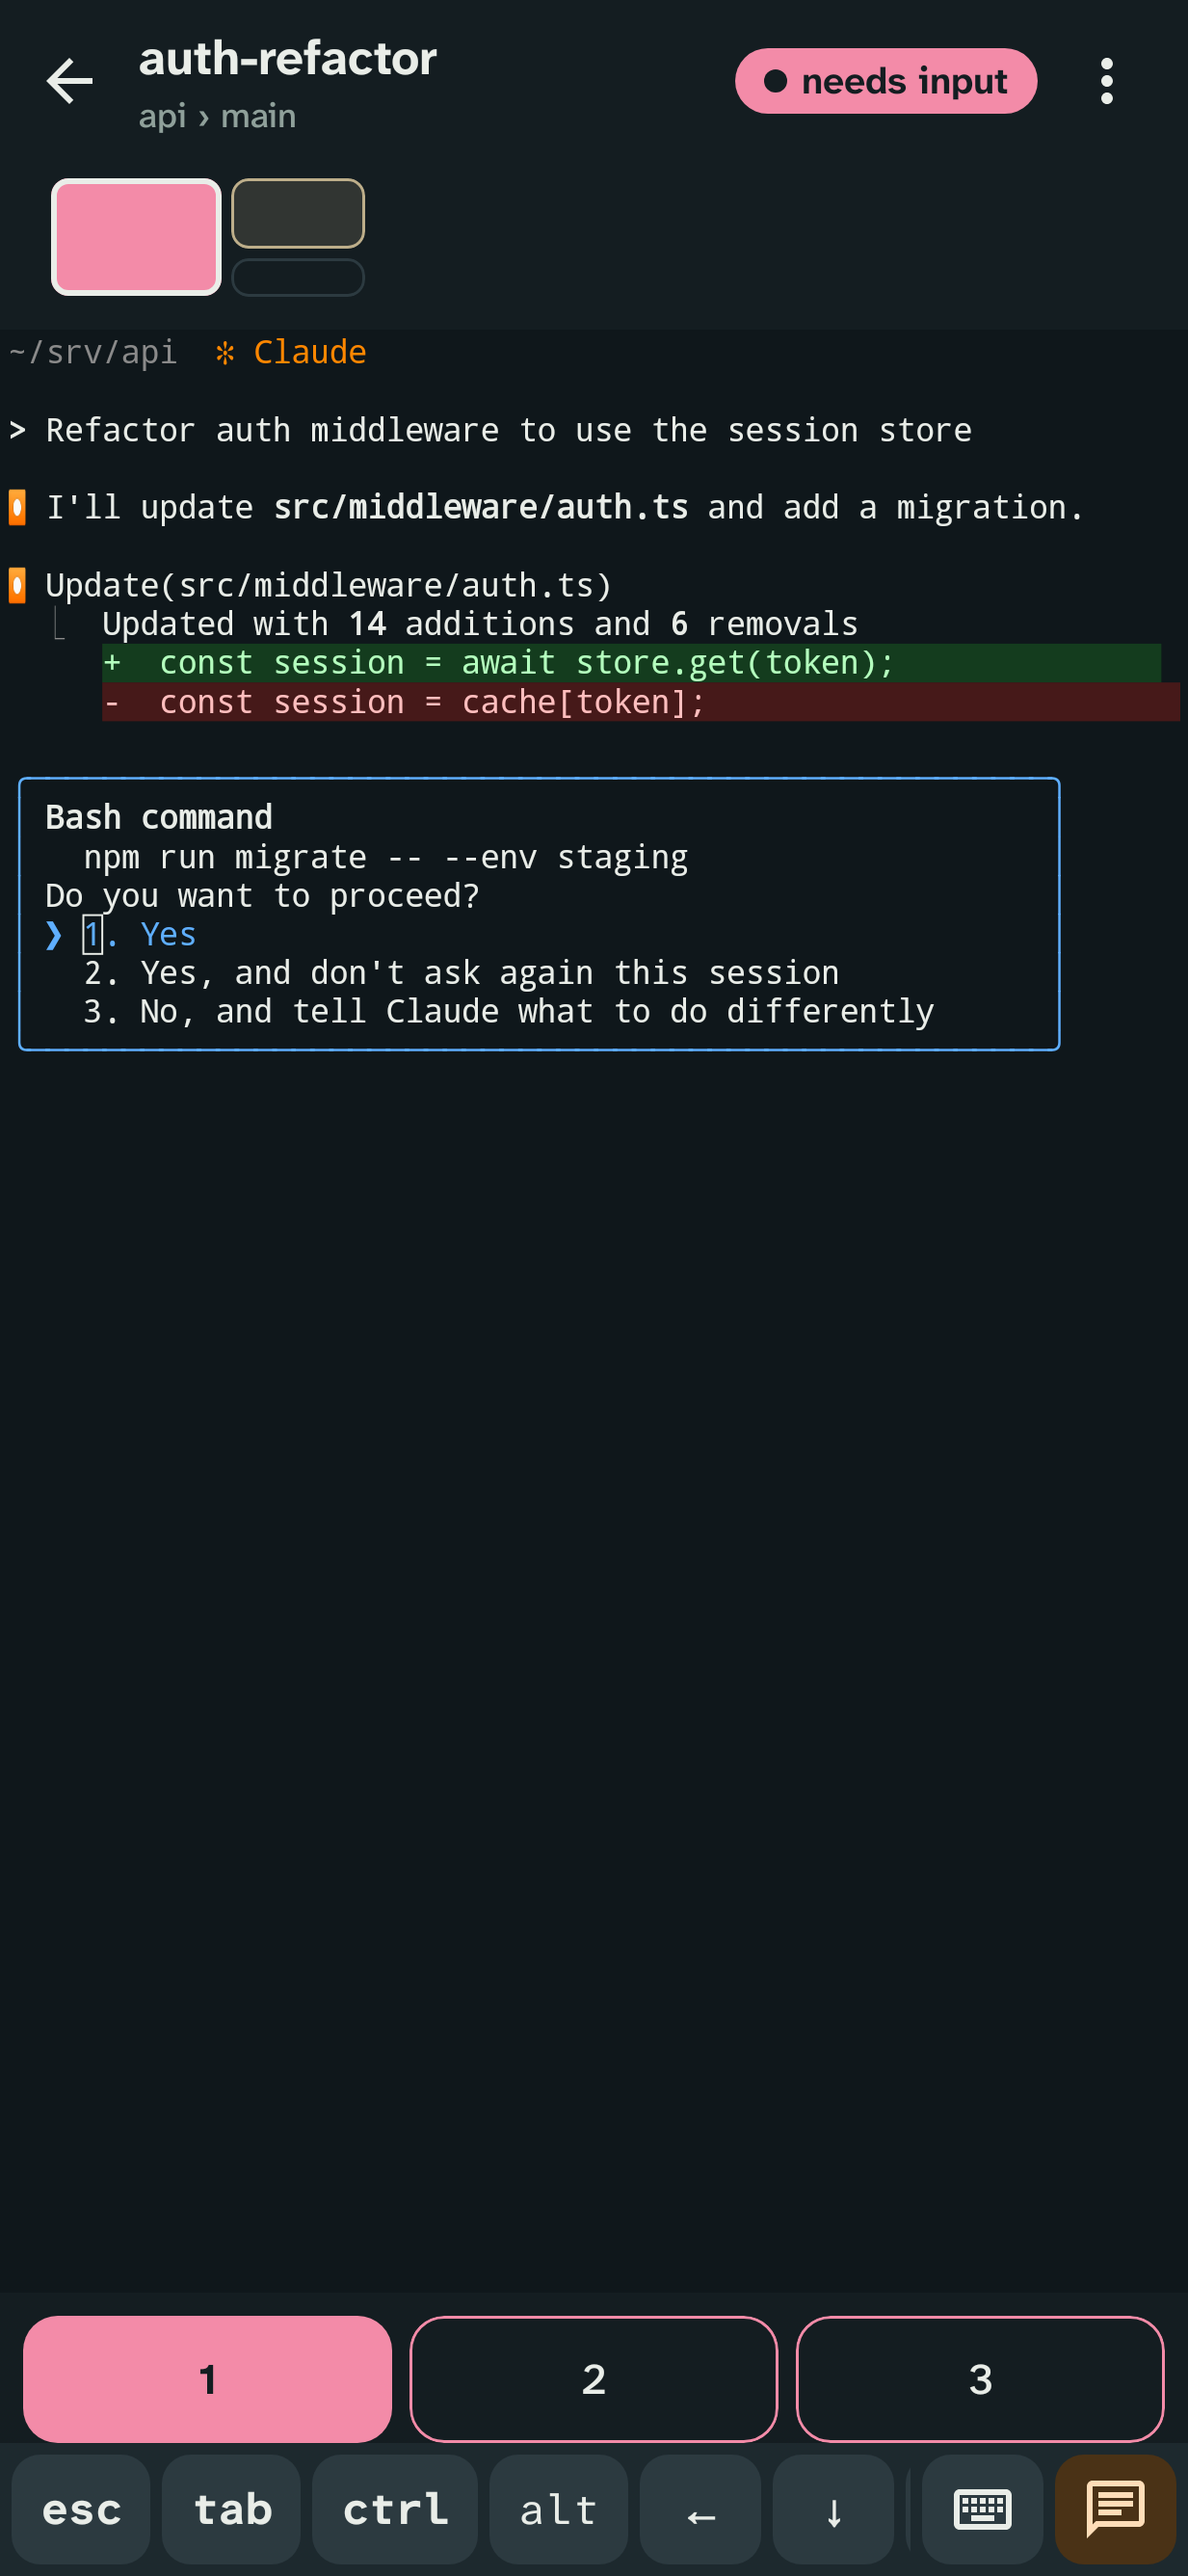
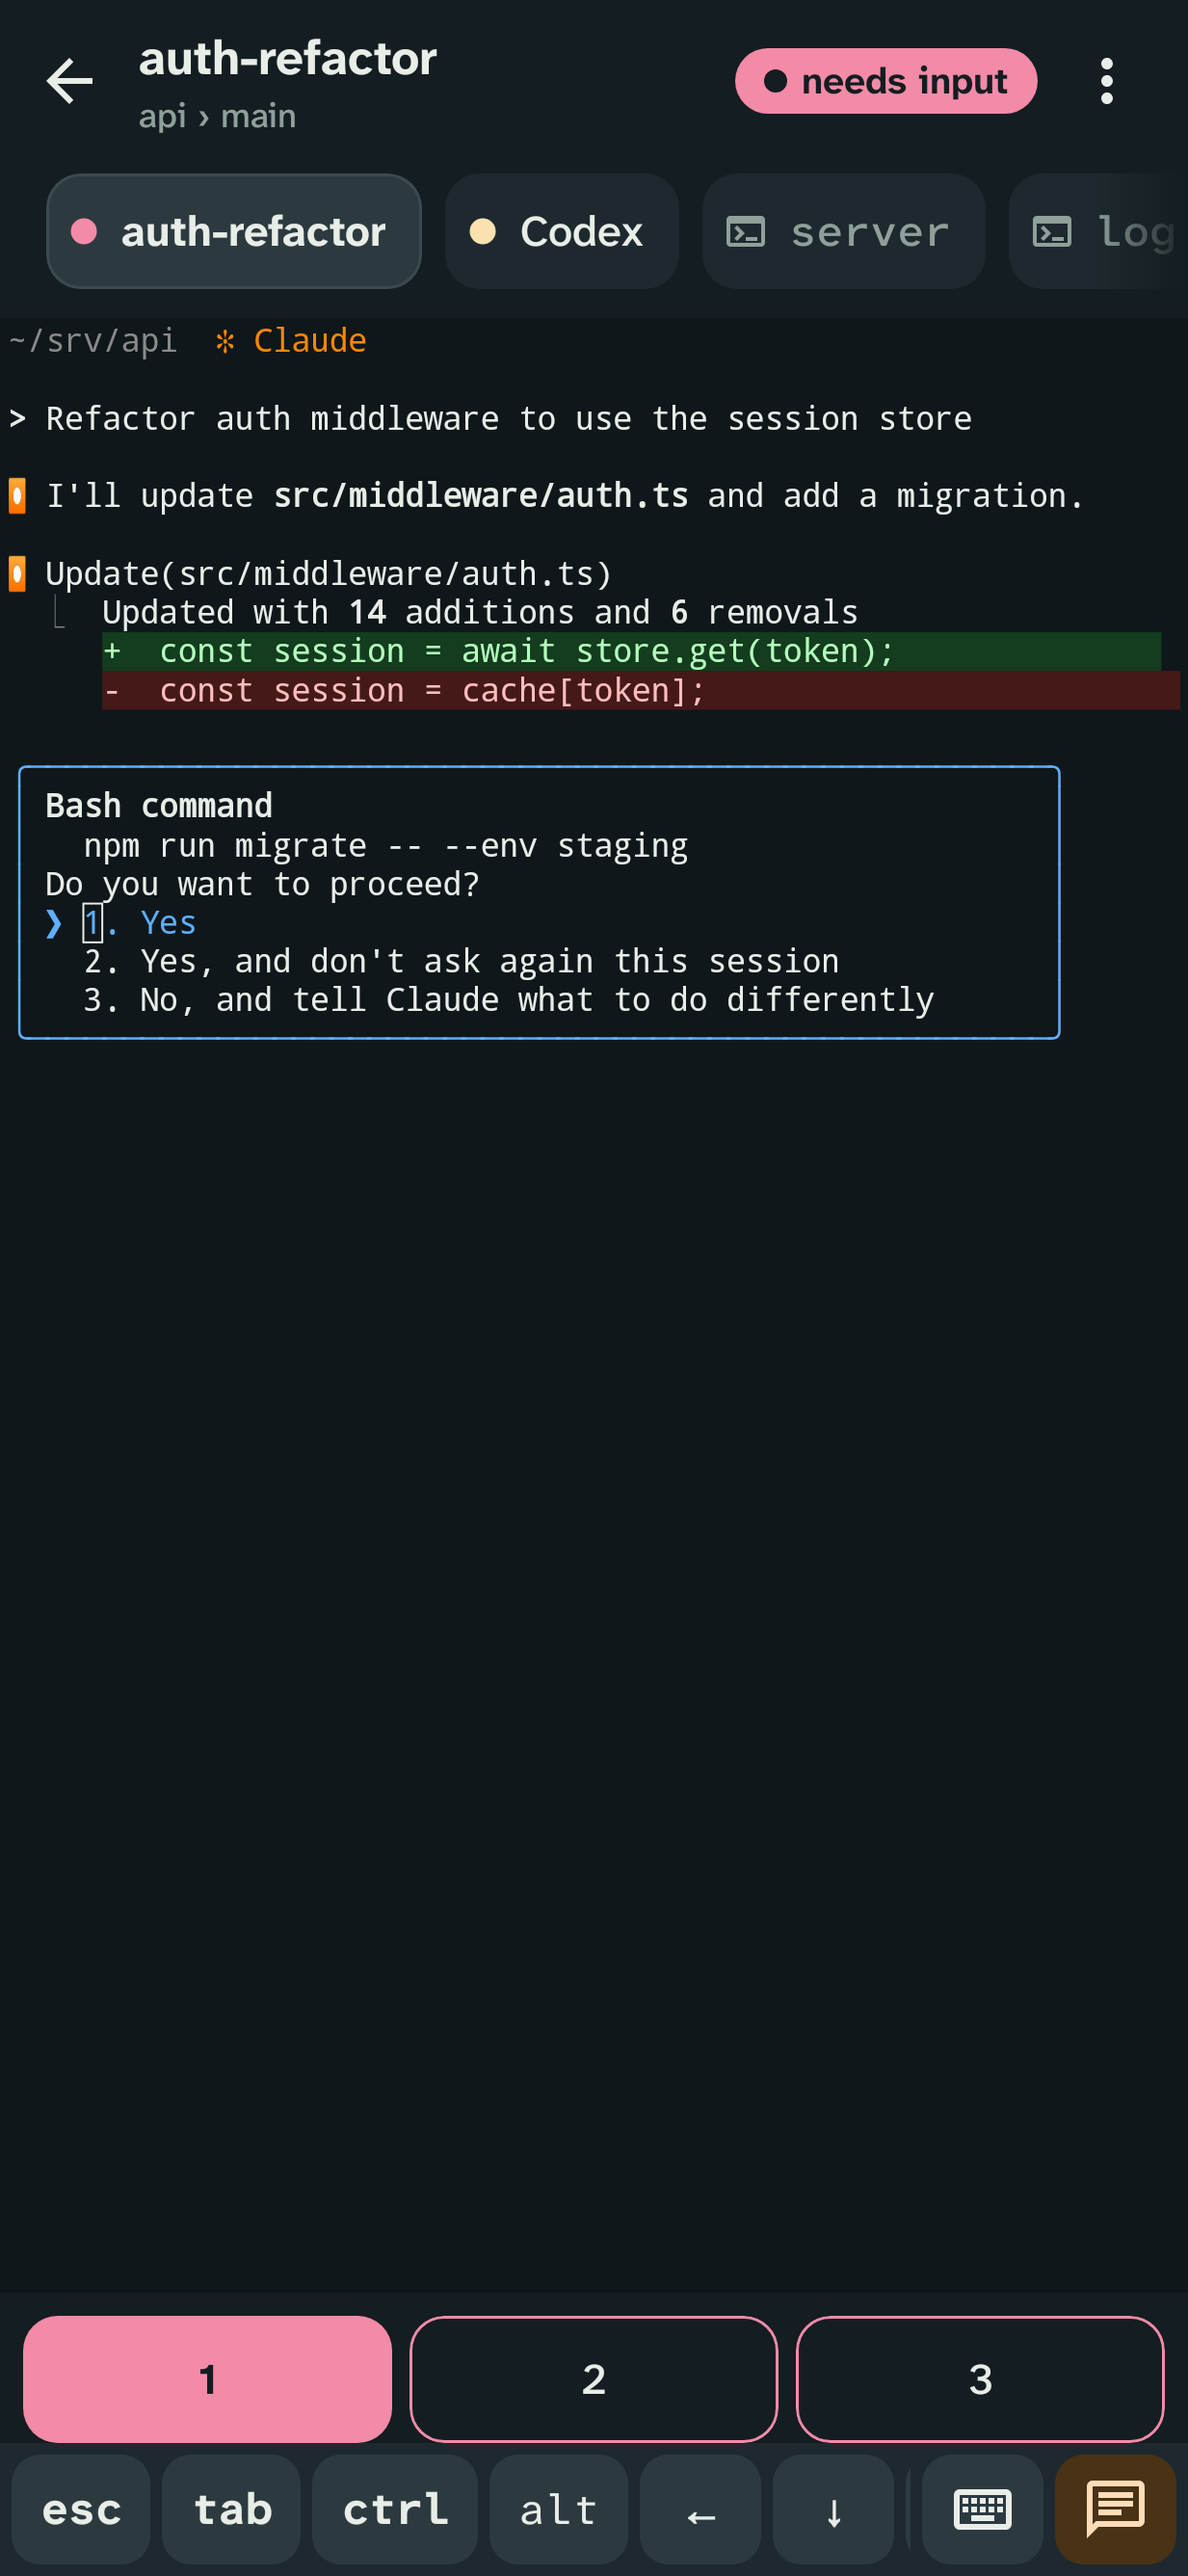
List every pane of the space in the agent view
The terminal's switcher shows all of the space's panes, agents and
ordinary terminals, with herdr's state marks instead of layout
miniatures; swiping walks the same list. Attention cards in the space
view use the state mark too, and space rows roll their mark up from
their agents.

diff --git a/app/src/main/java/dev/herdroid/ui/terminal/TerminalScreen.kt b/app/src/main/java/dev/herdroid/ui/terminal/TerminalScreen.kt
@@ -28,6 +28,9 @@ import androidx.compose.foundation.lazy.items
 import androidx.compose.foundation.lazy.rememberLazyListState
 import androidx.compose.foundation.shape.RoundedCornerShape
 import androidx.compose.material.icons.Icons
+import dev.herdroid.ui.components.StatusDot
+import androidx.compose.foundation.layout.widthIn
+import androidx.compose.material.icons.outlined.Terminal
 import androidx.compose.material.icons.automirrored.outlined.ArrowBack
 import androidx.compose.material.icons.outlined.Close
 import androidx.compose.material.icons.outlined.ContentCopy
@@ -104,7 +107,6 @@ import dev.herdroid.ui.components.ImageAttachments
 import dev.herdroid.ui.components.StatusPill
 import dev.herdroid.ui.components.fadingEdges
 import dev.herdroid.ui.session.SheetItem
-import dev.herdroid.ui.session.TabMiniature
 import dev.herdroid.ui.session.breadcrumb
 import dev.herdroid.ui.theme.HerdroidTheme
 import dev.herdroid.ui.theme.LocalStatusColors
@@ -272,9 +274,9 @@ private fun TerminalScreenContent(
                 onClosePane = { closing = true },
                 onReconnect = { controller.open() },
                 onSwipeAgent = { step ->
-                    val agents = snapshot?.let { snap -> pane?.let { snap.agentsInLayoutOrder(it.workspaceId) } }.orEmpty()
-                    val index = agents.indexOfFirst { it.paneId == paneId }
-                    agents.getOrNull(if (index < 0) 0 else (index + step).mod(agents.size))?.let { paneId = it.paneId }
+                    val panes = snapshot?.let { snap -> pane?.let { snap.panesInLayoutOrder(it.workspaceId) } }.orEmpty()
+                    val index = panes.indexOfFirst { it.paneId == paneId }
+                    panes.getOrNull(if (index < 0) 0 else (index + step).mod(panes.size))?.let { paneId = it.paneId }
                 },
             )
             ConnectionBanner(status, onRetry = { connection.retryNow() }, onEditHost = onEditHost)
@@ -538,55 +540,66 @@ private fun MenuItem(icon: androidx.compose.ui.graphics.vector.ImageVector, text
     DropdownMenuItem(text = { Text(text) }, leadingIcon = { Icon(icon, null) }, onClick = onClick)
 }
 
-/** The current tab as a miniature (tap a pane to switch), then the space's other agents, one tap away. */
+/**
+ * Every pane of the current space, agents and ordinary terminals alike, in layout order: herdr's
+ * state mark for agents, a terminal glyph for shells. The current pane is highlighted.
+ */
 @Composable
 internal fun PaneSwitcher(snapshot: SessionSnapshot, current: PaneInfo, onSelect: (String) -> Unit) {
-    val siblings = snapshot.panesOf(current.tabId)
-    // Only this space's agents: changing space means going back up to the spaces list.
-    val otherAgents = snapshot.agentsIn(current.workspaceId).filter { it.tabId != current.tabId }
-    if (siblings.size <= 1 && otherAgents.isEmpty()) return
+    // Only this space's panes: changing space means going back up to the spaces list.
+    val panes = snapshot.panesInLayoutOrder(current.workspaceId)
+    if (panes.size <= 1) return
     val listState = rememberLazyListState()
+    LaunchedEffect(current.paneId) {
+        panes.indexOfFirst { it.paneId == current.paneId }.takeIf { it >= 0 }?.let { listState.animateScrollToItem(it) }
+    }
     LazyRow(
         state = listState,
         modifier = Modifier.fadingEdges(listState),
         contentPadding = PaddingValues(start = 16.dp, end = 16.dp, top = 4.dp, bottom = 10.dp),
-        horizontalArrangement = Arrangement.spacedBy(10.dp),
+        horizontalArrangement = Arrangement.spacedBy(8.dp),
         verticalAlignment = Alignment.CenterVertically,
     ) {
-        if (siblings.size > 1) {
-            item(key = "tab") {
-                TabMiniature(
-                    snapshot = snapshot,
-                    tabId = current.tabId,
-                    modifier = Modifier.size(112.dp, 44.dp),
-                    highlightPaneId = current.paneId,
-                    gap = 3.dp,
-                    corner = 6.dp,
-                    onPaneClick = onSelect,
-                )
-            }
-            if (otherAgents.isNotEmpty()) {
-                item(key = "divider") {
-                    Box(Modifier.size(1.dp, 32.dp).background(MaterialTheme.colorScheme.outlineVariant))
-                }
-            }
-        }
-        items(otherAgents, key = { "a-" + it.paneId }) { agent ->
+        items(panes, key = { it.paneId }) { pane ->
+            val agent = snapshot.agentFor(pane.paneId)
+            val selected = pane.paneId == current.paneId
+            val shape = RoundedCornerShape(12.dp)
             Row(
                 Modifier
-                    .height(44.dp)
-                    .clip(RoundedCornerShape(12.dp))
-                    .background(MaterialTheme.colorScheme.surfaceContainer)
-                    .clickable { onSelect(agent.paneId) }
-                    .padding(start = 8.dp, end = 12.dp),
+                    .height(40.dp)
+                    .clip(shape)
+                    .background(
+                        if (selected) MaterialTheme.colorScheme.surfaceContainerHighest
+                        else MaterialTheme.colorScheme.surfaceContainer
+                    )
+                    .then(if (selected) Modifier.border(1.dp, MaterialTheme.colorScheme.outline, shape) else Modifier)
+                    .clickable(enabled = !selected) { onSelect(pane.paneId) }
+                    .padding(start = 4.dp, end = 12.dp),
                 verticalAlignment = Alignment.CenterVertically,
-                horizontalArrangement = Arrangement.spacedBy(8.dp),
+                horizontalArrangement = Arrangement.spacedBy(4.dp),
             ) {
-                TabMiniature(snapshot, agent.tabId, Modifier.size(28.dp, 18.dp), highlightPaneId = agent.paneId, corner = 3.dp)
-                Text(agent.displayName, style = MaterialTheme.typography.labelLarge, fontWeight = FontWeight.Medium, maxLines = 1)
-                snapshot.workspace(agent.workspaceId)?.label?.takeIf { it.isNotBlank() }?.let {
-                    Text(it, style = MaterialTheme.typography.labelLarge, fontWeight = FontWeight.Medium, color = MaterialTheme.colorScheme.onSurfaceVariant, maxLines = 1)
+                if (agent != null) {
+                    StatusDot(agent.agentStatus, size = 9.dp)
+                } else {
+                    Box(Modifier.size(18.dp + 4.dp), contentAlignment = Alignment.Center) {
+                        Icon(
+                            Icons.Outlined.Terminal, null,
+                            Modifier.size(16.dp),
+                            tint = MaterialTheme.colorScheme.onSurfaceVariant,
+                        )
+                    }
                 }
+                Text(
+                    agent?.displayName ?: pane.displayTitle,
+                    style = MaterialTheme.typography.labelLarge,
+                    fontWeight = if (selected) FontWeight.Bold else FontWeight.Medium,
+                    fontFamily = if (agent == null) Mono else null,
+                    color = if (selected || agent != null) MaterialTheme.colorScheme.onSurface
+                    else MaterialTheme.colorScheme.onSurfaceVariant,
+                    maxLines = 1,
+                    overflow = TextOverflow.Ellipsis,
+                    modifier = Modifier.widthIn(max = 160.dp),
+                )
             }
         }
     }

diff --git a/app/src/main/java/dev/herdroid/herdr/Models.kt b/app/src/main/java/dev/herdroid/herdr/Models.kt
@@ -199,9 +199,9 @@ data class SessionSnapshot(
     /** A space's agents, whoever needs you first. */
     fun agentsIn(workspaceId: String) = agentsByAttention.filter { it.workspaceId == workspaceId }
 
-    /** A space's agents in where they sit (tab by tab, pane by pane), stable as states change. */
-    fun agentsInLayoutOrder(workspaceId: String): List<AgentInfo> =
-        tabsOf(workspaceId).flatMap { panesOf(it.tabId) }.mapNotNull { agentFor(it.paneId) }
+    /** All of a space's panes, agents and shells, tab by tab in layout order. */
+    fun panesInLayoutOrder(workspaceId: String): List<PaneInfo> =
+        tabsOf(workspaceId).flatMap { panesOf(it.tabId) }
 
     /** The space's state rolled up from its agents, as herdr's sidebar shows it. */
     fun spaceStatus(workspace: WorkspaceInfo): AgentStatus =

diff --git a/app/src/main/java/dev/herdroid/ui/session/SpaceScreen.kt b/app/src/main/java/dev/herdroid/ui/session/SpaceScreen.kt
@@ -243,7 +243,7 @@ private fun AttentionCard(
     ) {
         Column(Modifier.padding(16.dp), verticalArrangement = Arrangement.spacedBy(12.dp)) {
             Row(verticalAlignment = Alignment.CenterVertically, horizontalArrangement = Arrangement.spacedBy(14.dp)) {
-                TabMiniature(snapshot, agent.tabId, MiniatureRow, highlightPaneId = agent.paneId)
+                StatusDot(agent.agentStatus, size = 12.dp)
                 Column(Modifier.weight(1f)) {
                     Text(agent.displayName, style = MaterialTheme.typography.titleMedium, maxLines = 1, overflow = TextOverflow.Ellipsis)
                     if (detail.isNotEmpty()) {

diff --git a/app/src/main/java/dev/herdroid/ui/session/SessionScreen.kt b/app/src/main/java/dev/herdroid/ui/session/SessionScreen.kt
@@ -283,7 +283,7 @@ private fun SpaceCard(
                 Column(Modifier.weight(1f)) {
                     // herdr's space row: its state mark, then the name.
                     Row(verticalAlignment = Alignment.CenterVertically) {
-                        StatusDot(workspace.agentStatus, Modifier.offset(x = (-4).dp), size = 8.dp)
+                        StatusDot(snapshot.spaceStatus(workspace), Modifier.offset(x = (-4).dp), size = 8.dp)
                         Text(
                             workspace.label.ifBlank { "Space ${workspace.number}" },
                             style = MaterialTheme.typography.titleMedium,
